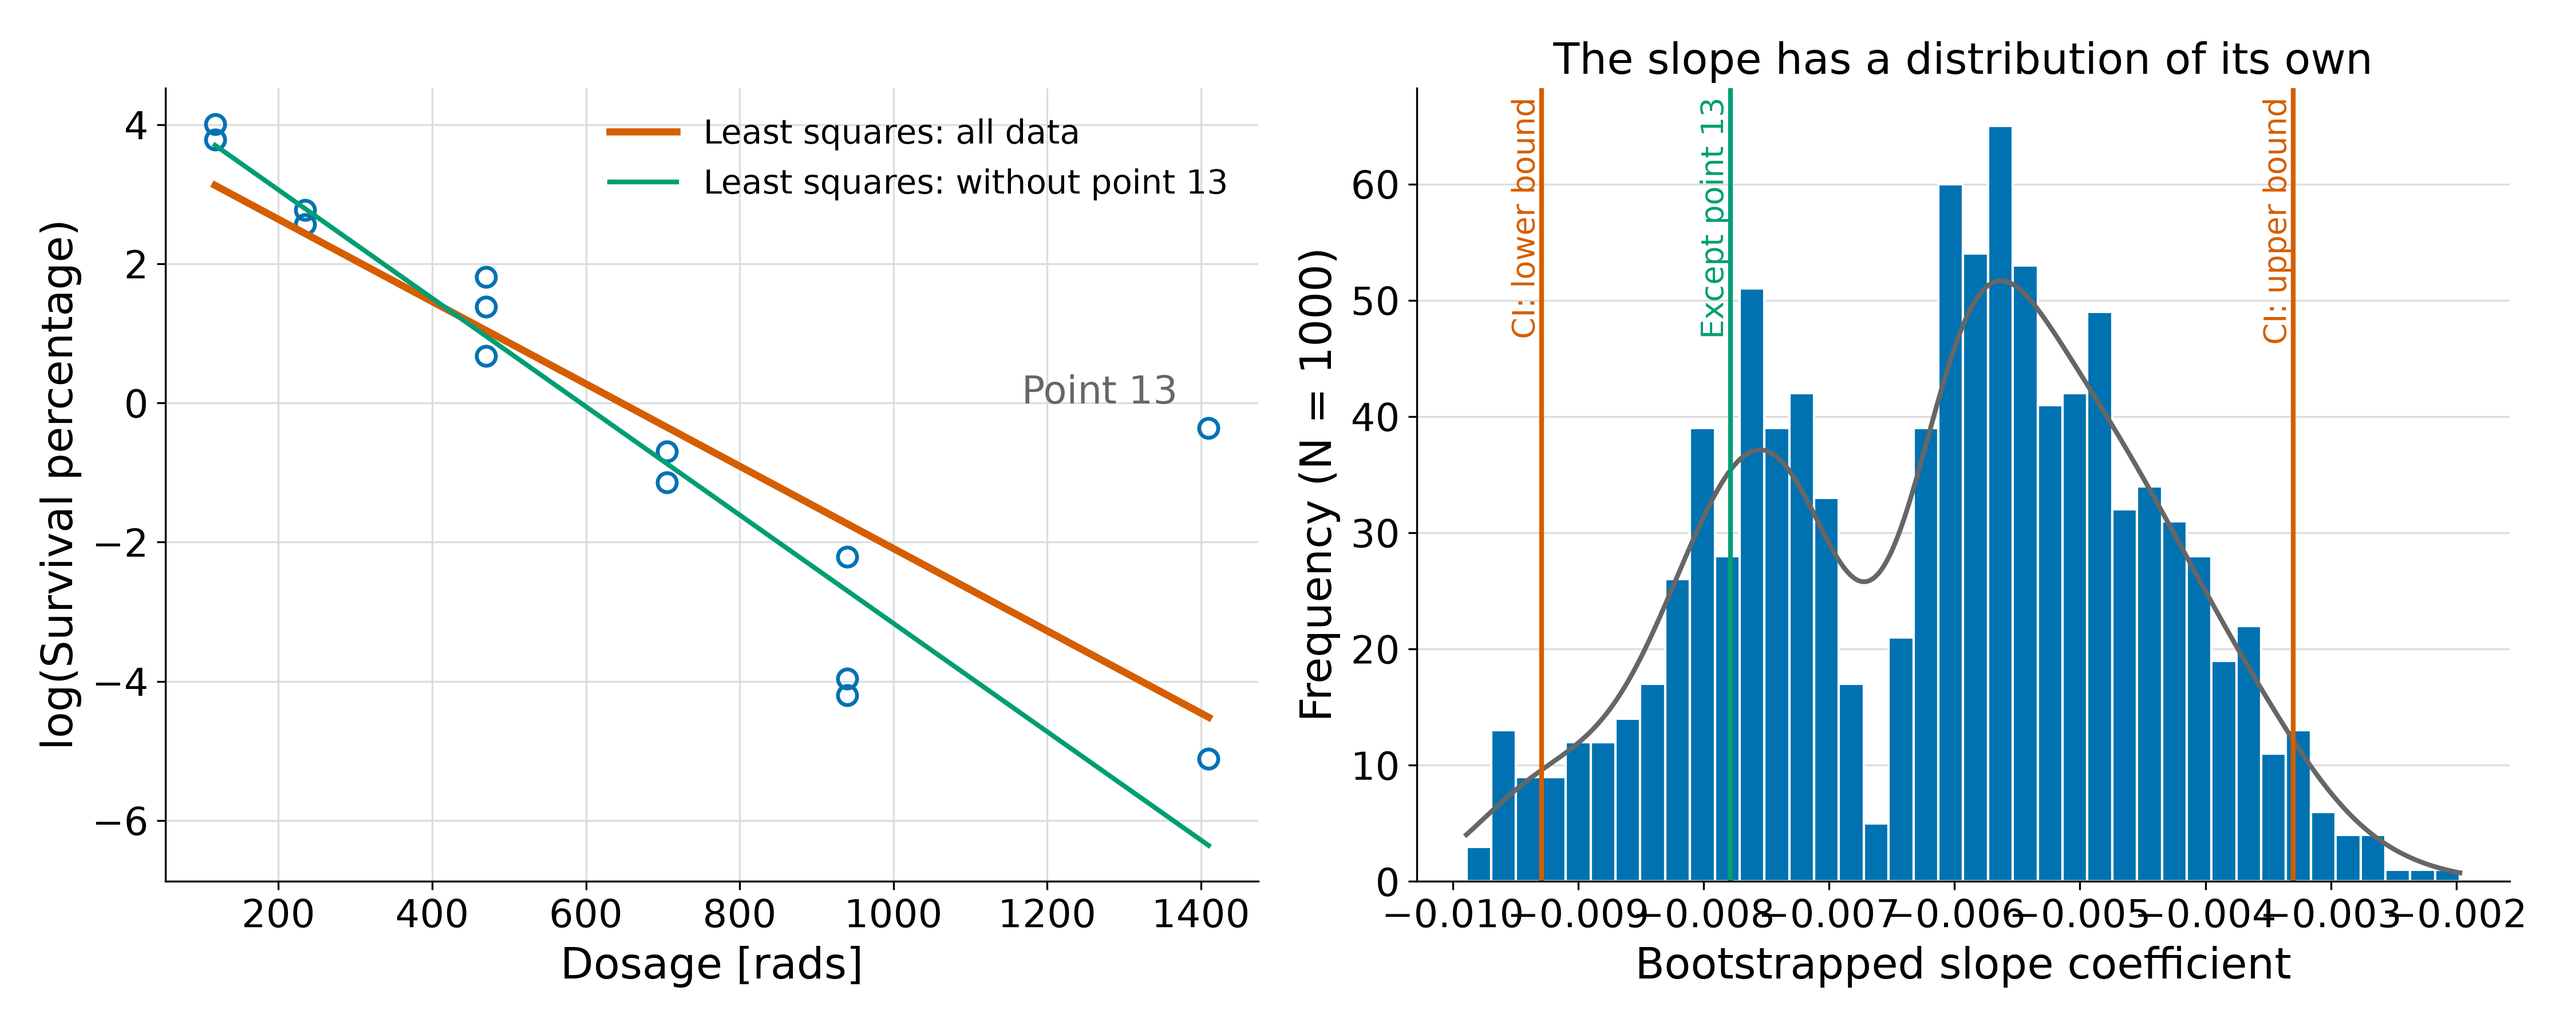
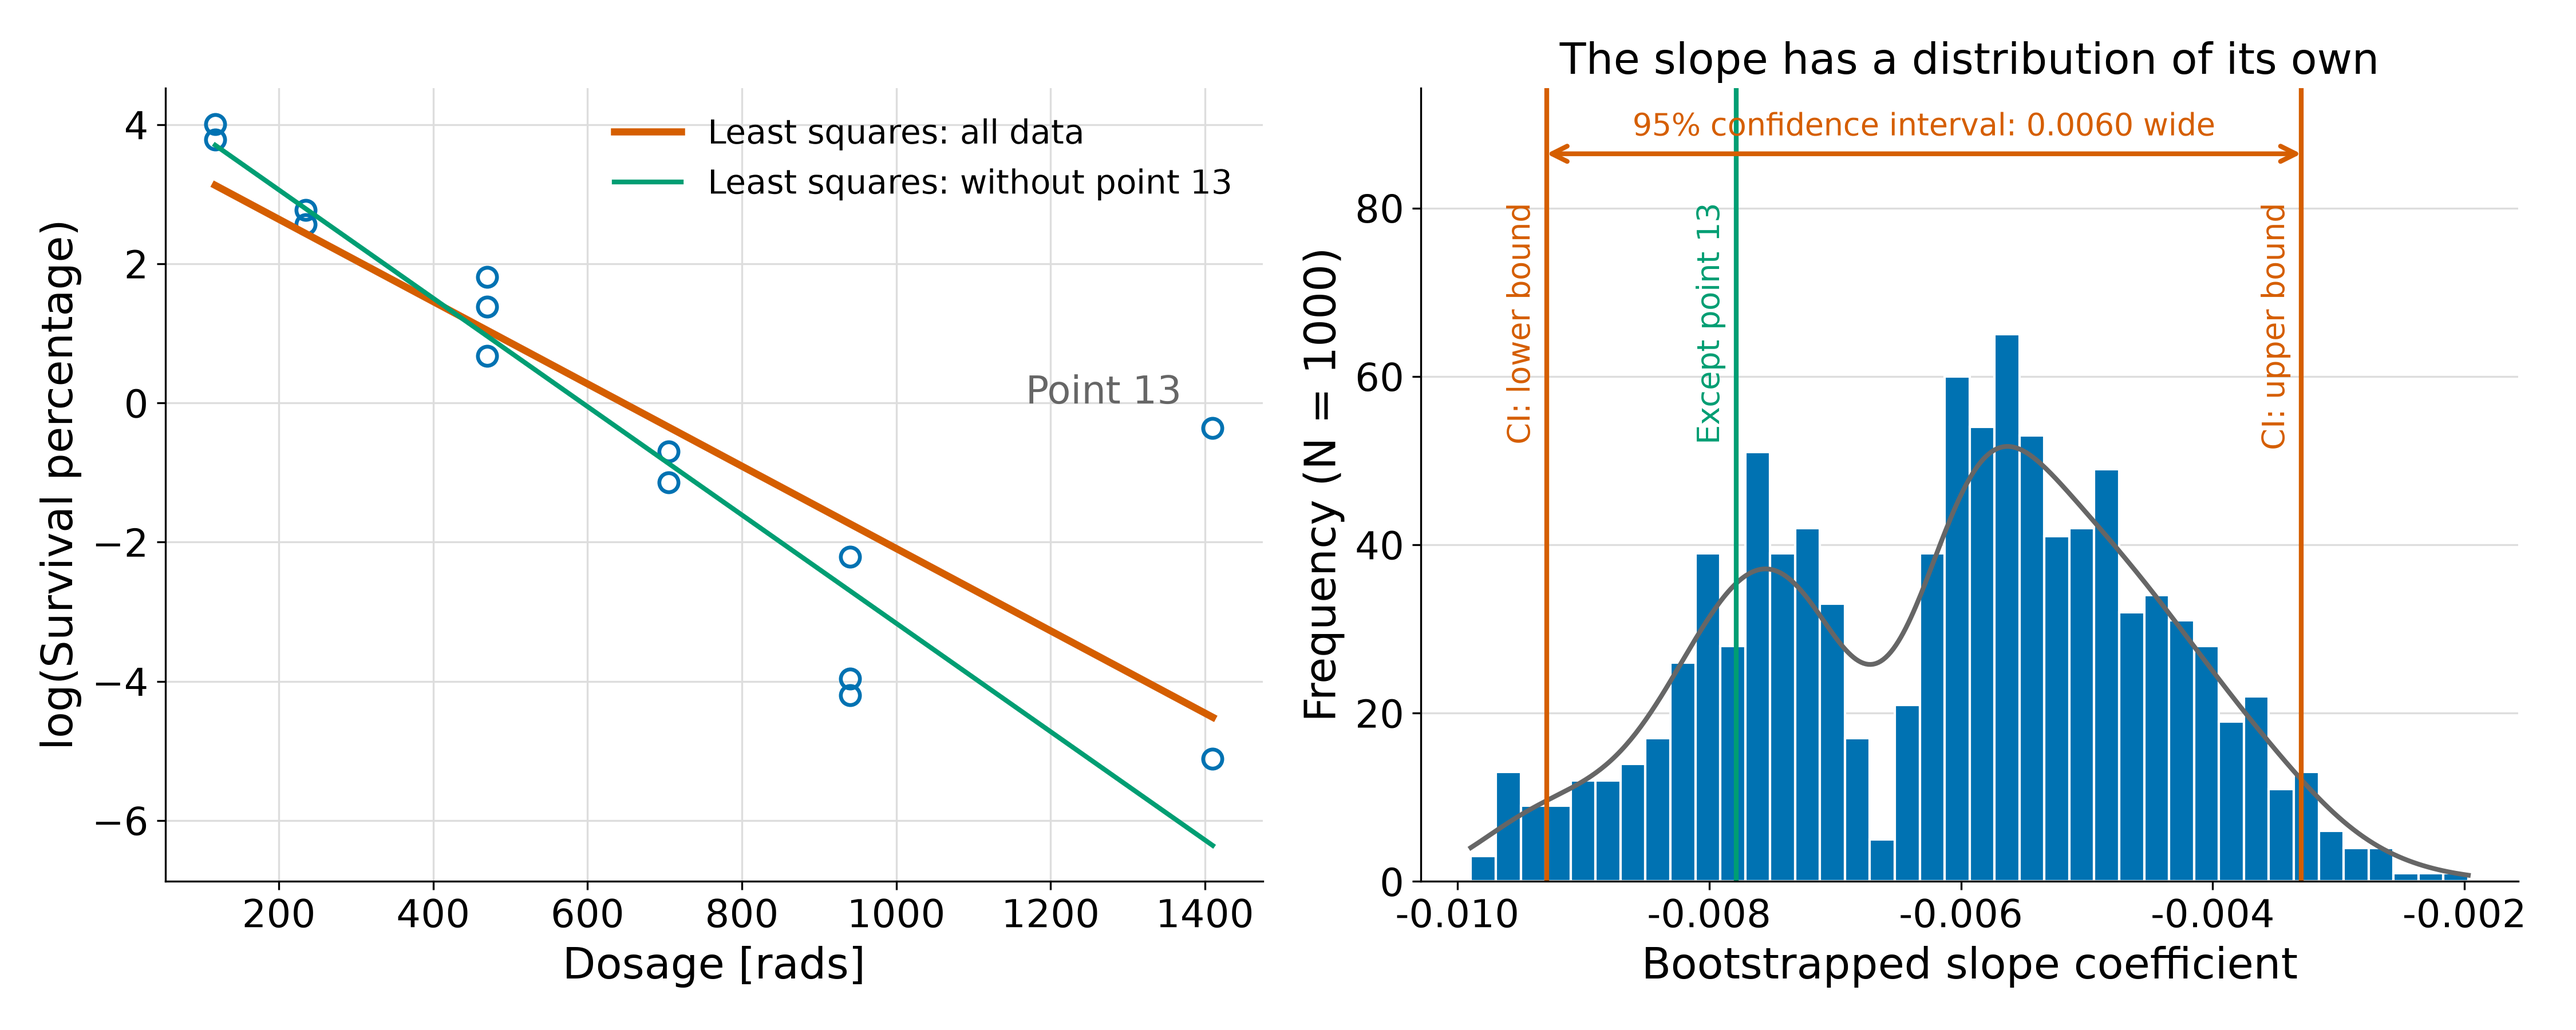
Make the bootstrap histogram's x axis readable, and show the interval as a width
Nine tick labels at 0.001 spacing ran into each other on a
0.002-wide axis, reading as one continuous string of digits. One label
every 0.002 now, five in total, which is what the original had.

The original also drew a double-headed arrow spanning the confidence
interval. Two vertical lines say where the bounds are; the arrow
between them is what shows how wide the interval is, which is the
quantity the section is discussing. It is back, with the width stated
on it, in headroom above the bars so it does not sit over the
distribution.

diff --git a/least-squares/least_squares_chapter_figures.py b/least-squares/least_squares_chapter_figures.py
@@ -230,6 +230,11 @@ def bootstrap(outdir: pathlib.Path) -> None:
     density = stats.gaussian_kde(slopes)(curve)
     ax.plot(curve, density * draws * np.diff(edges).mean(), color=GREY,
             linewidth=2)
+    # Headroom above the bars for the interval arrow and the three
+    # labels, so neither sits on top of the distribution.
+    top = float(counts.max())
+    ax.set_ylim(0, 1.45 * top)
+
     # Label the bounds: an unlabelled vertical line does not say which
     # of the three quantities it marks.
     marks = (
@@ -239,12 +244,27 @@ def bootstrap(outdir: pathlib.Path) -> None:
     )
     for value, colour, label in marks:
         ax.axvline(value, color=colour, linewidth=2)
-        ax.annotate(label, xy=(value, ax.get_ylim()[1]), xytext=(0, -4),
+        ax.annotate(label, xy=(value, 1.24 * top), xytext=(-4, 0),
                     textcoords="offset points", rotation=90, ha="right",
                     va="top", color=colour, fontsize=13)
+
+    # The width of the interval, drawn as a width. Two vertical lines
+    # say where the bounds are; the arrow between them is what shows
+    # how wide the interval is, which is the quantity under discussion.
+    ax.annotate("", xy=(high, 1.33 * top), xytext=(low, 1.33 * top),
+                arrowprops=dict(arrowstyle="<->", color=VERMILLION,
+                                linewidth=2, shrinkA=0, shrinkB=0))
+    ax.annotate(f"95% confidence interval: {high - low:.4f} wide",
+                xy=((low + high) / 2, 1.35 * top), ha="center", va="bottom",
+                color=VERMILLION, fontsize=13)
+
     ax.set_xlabel("Bootstrapped slope coefficient")
     ax.set_ylabel(f"Frequency (N = {draws})")
     ax.set_title("The slope has a distribution of its own")
+    # One label every 0.002. The default put nine on this axis and they
+    # ran into each other, reading as a single string of digits.
+    ax.xaxis.set_major_locator(mpl.ticker.MultipleLocator(0.002))
+    ax.xaxis.set_major_formatter(mpl.ticker.FormatStrFormatter("%.3f"))
     save(fig, outdir, "bootstrap-example.png")
 
 
